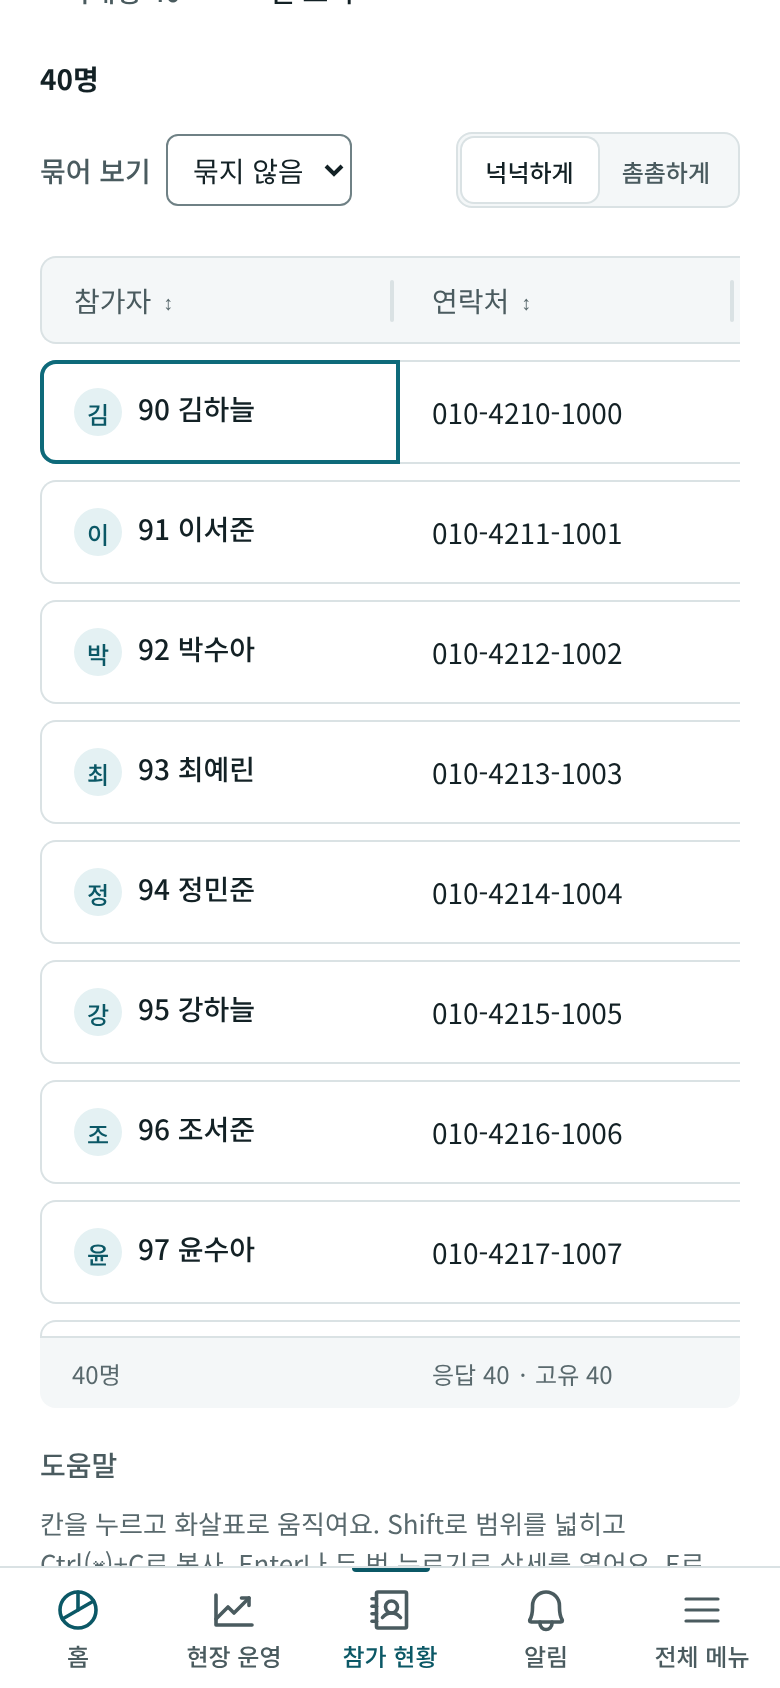
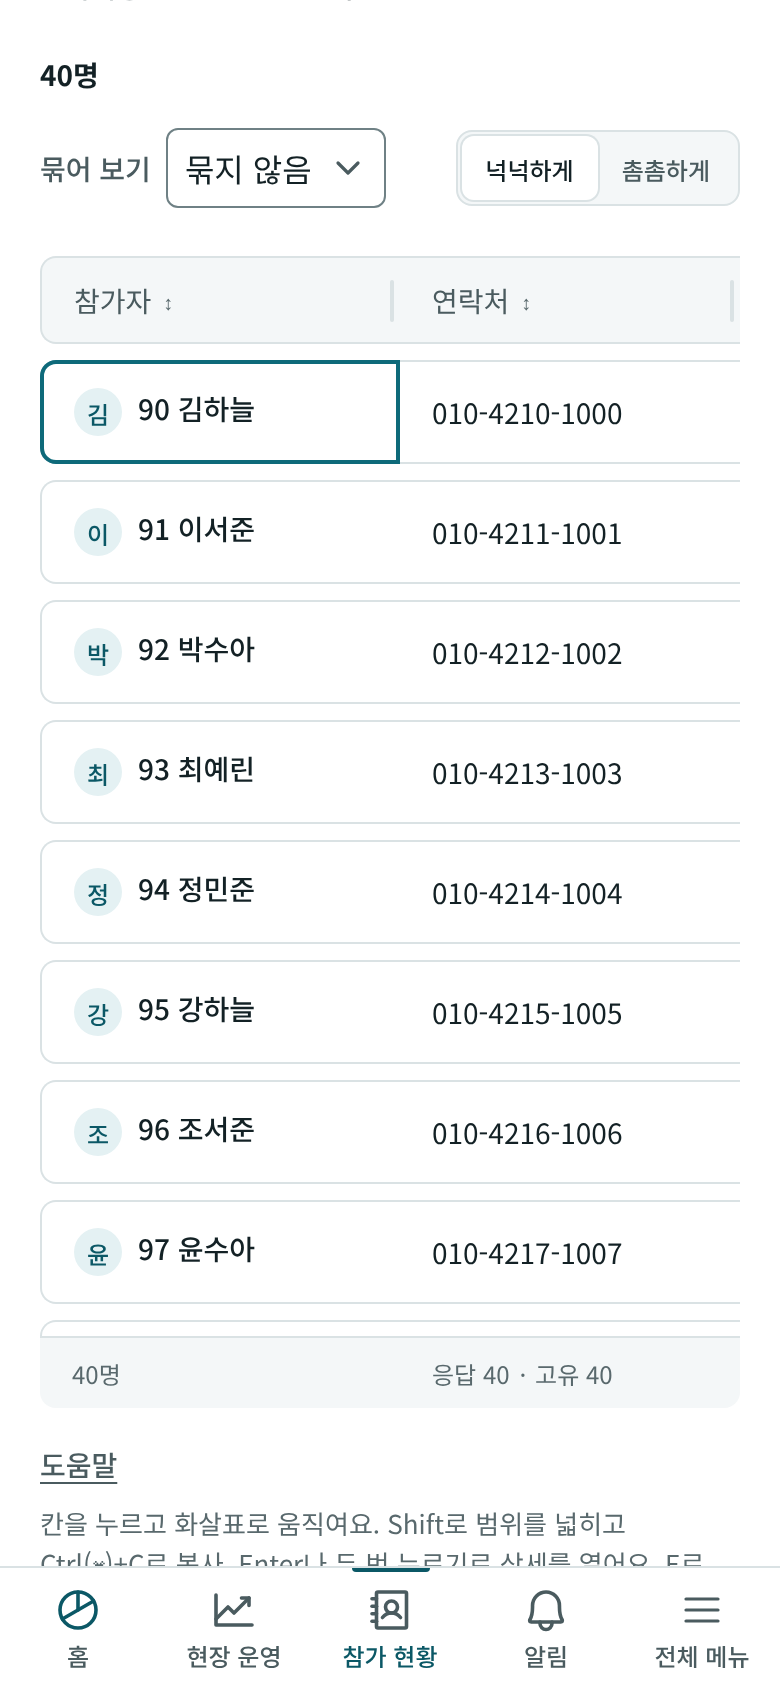
도움말 토글에 공용 눌림 반응을 붙이고 main 병합 뒤 캡처·클릭 확인을 다시 기록한다 (#497)
PR #491(scene-press)·#492(공용 Select)를 합친 뒤 1440·390 캡처를 다시 찍고 click-check 40개 PASS를 확인했다.

Claude-Session: https://claude.ai/code/session_019gxRjAUv3Y7Ztuqs2CLWfk

diff --git a/frontend/src/components/applicantTable/SheetGrid.tsx b/frontend/src/components/applicantTable/SheetGrid.tsx
@@ -421,7 +421,7 @@ export function SheetGrid({
         {notice}
       </p>
       <details className="roster__keys">
-        <summary>도움말</summary>
+        <summary className="scene-press scene-press--text">도움말</summary>
         <p className="roster__hint">
           {`칸을 누르고 화살표로 움직여요. Shift로 범위를 넓히고 Ctrl(⌘)+C로 복사, Enter나 두 번 누르기로 상세를 열어요.${onEdit ? " E로 운영 정보를 고쳐요." : ""}`}
         </p>
